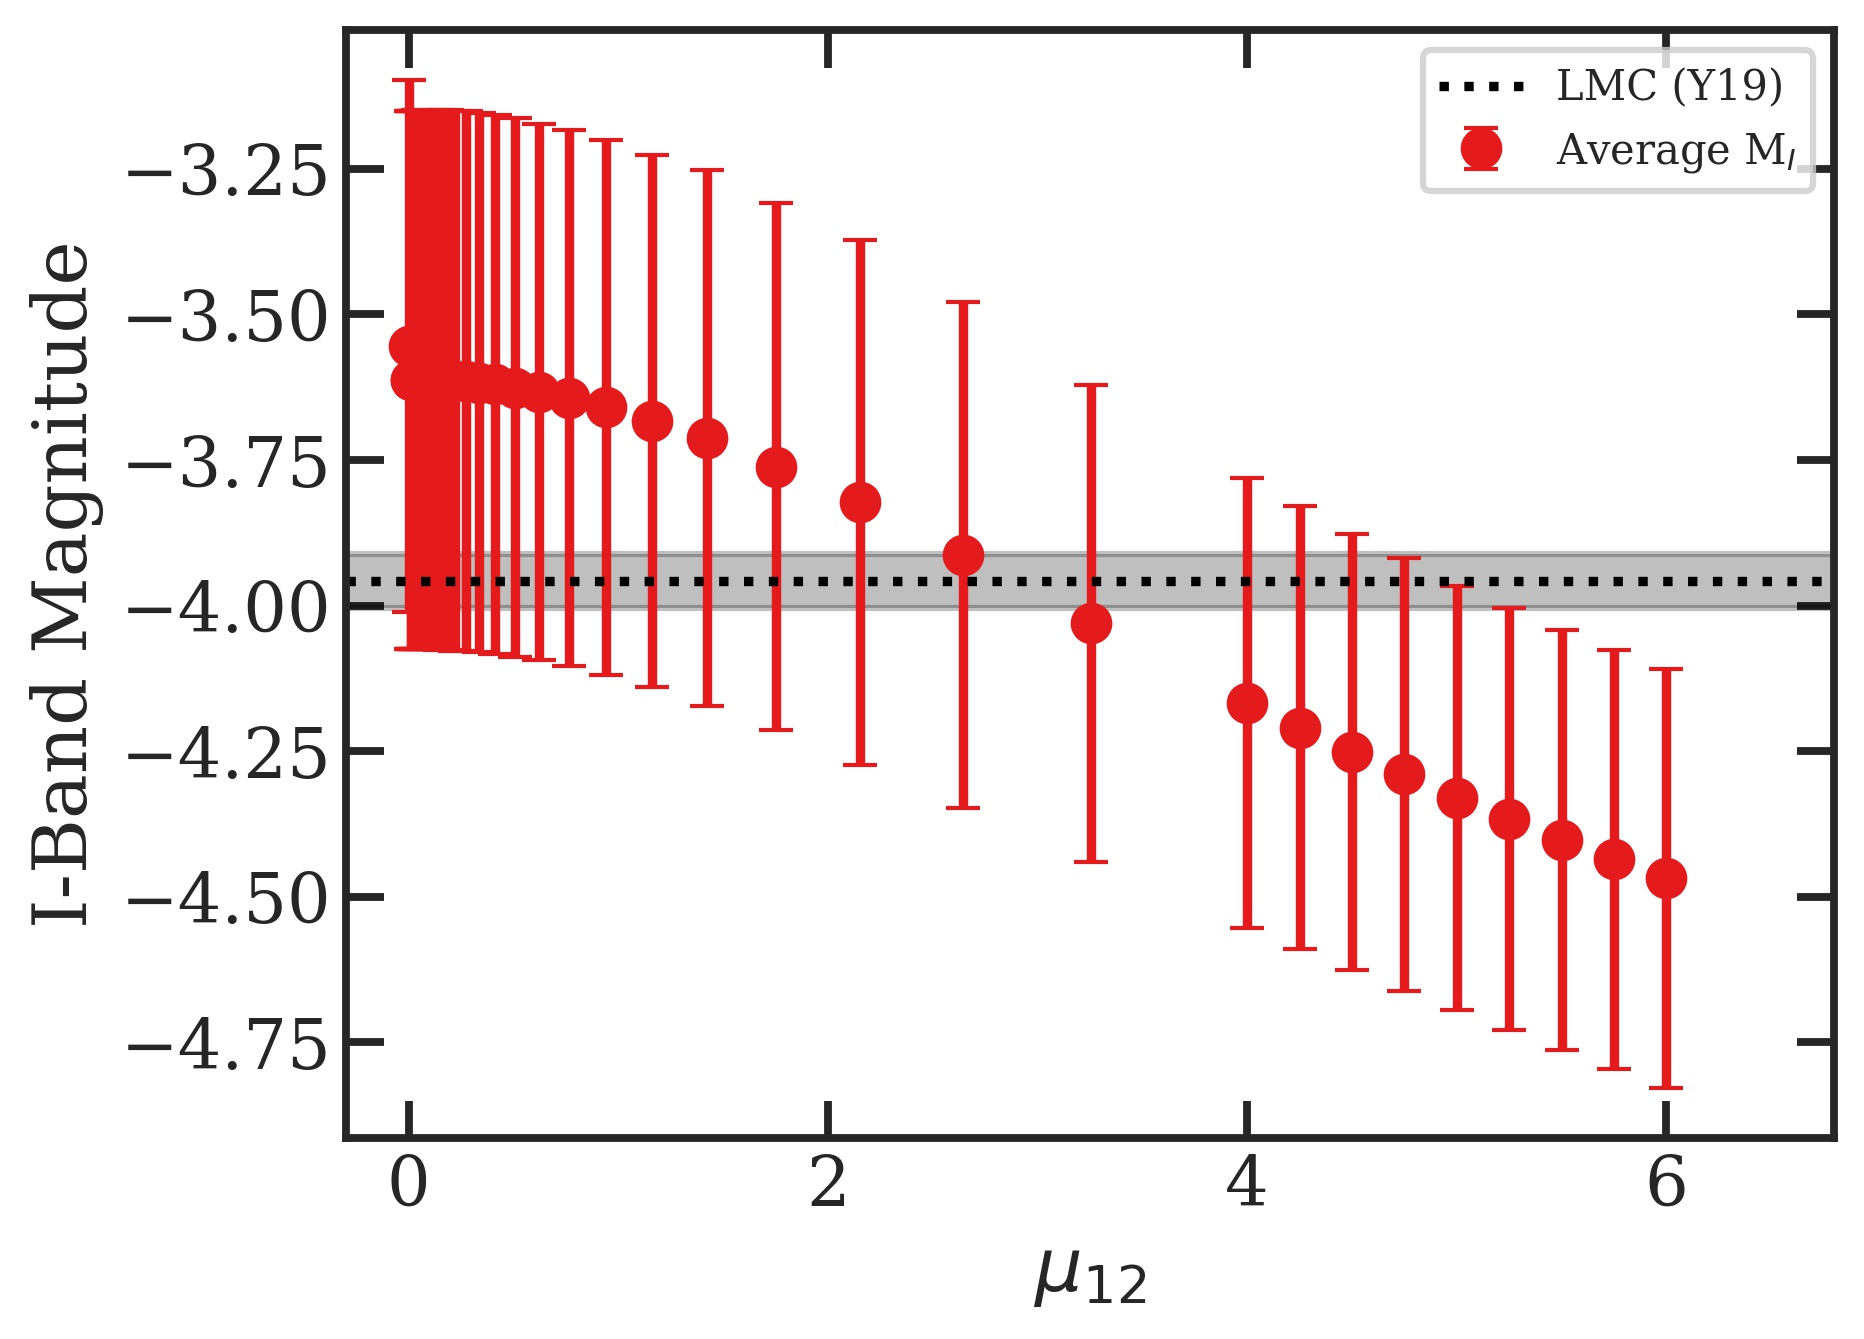
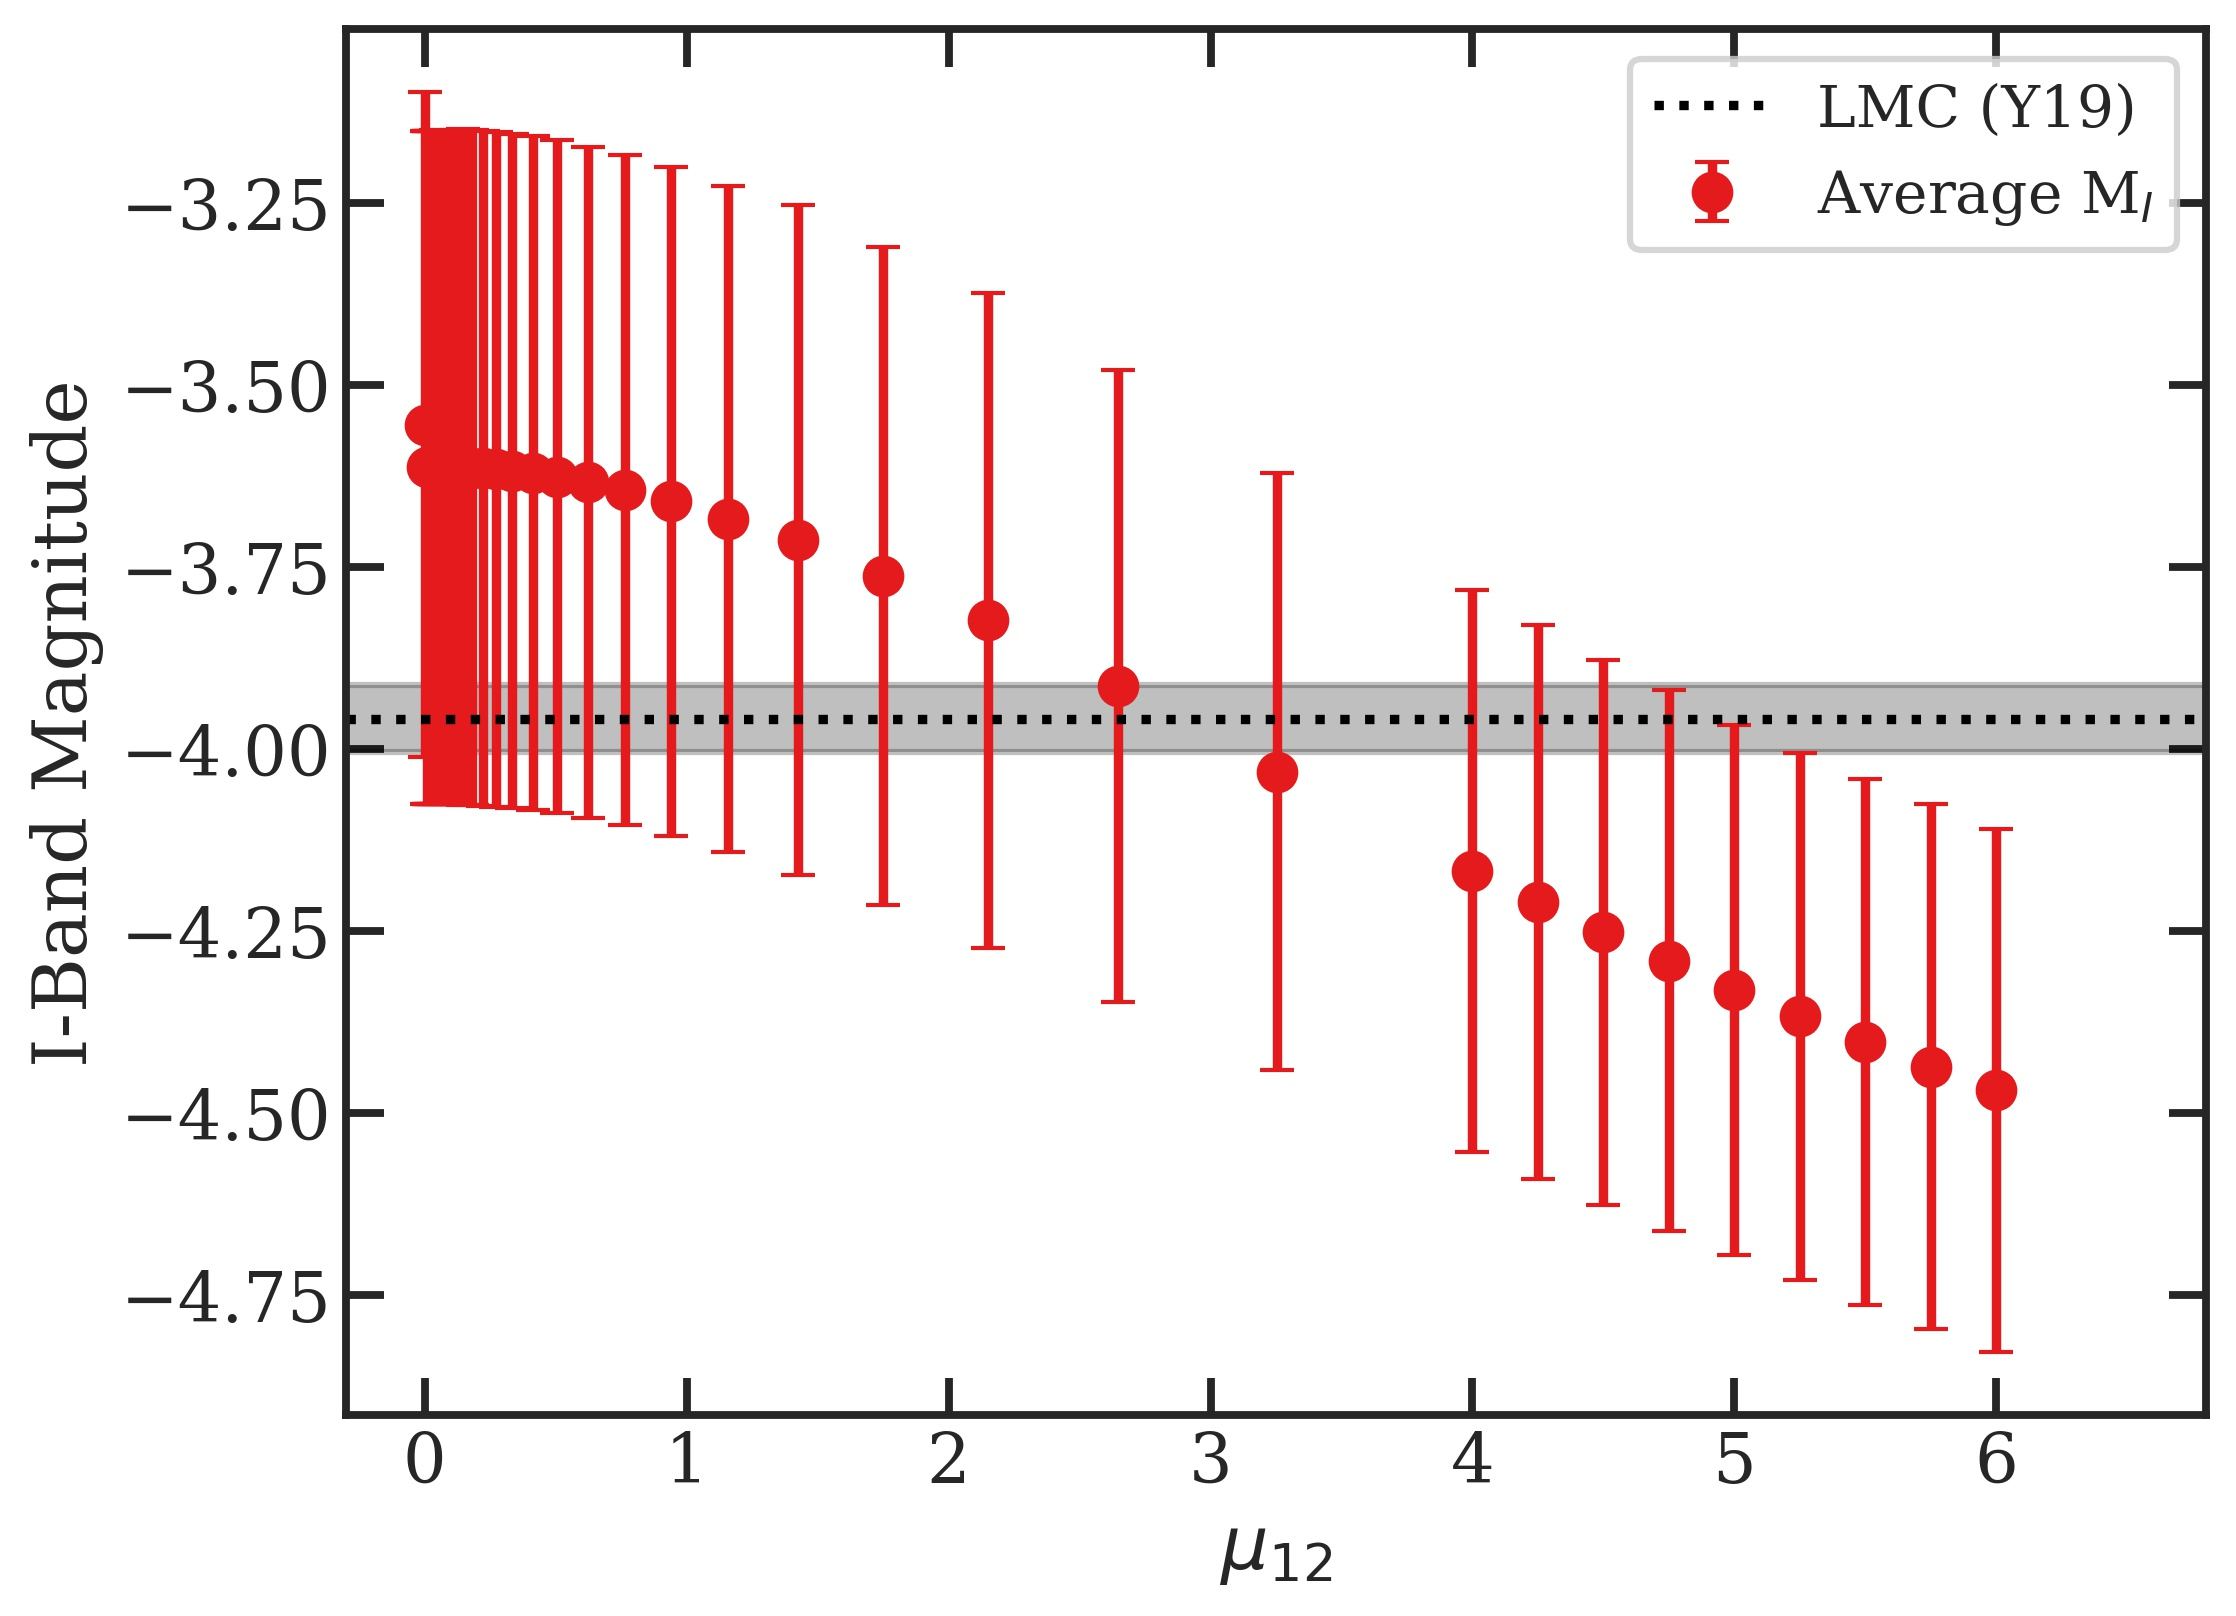
make plots nicer

Changed region(s): [[0.0, 0.0, 0.9957, 0.9186], [0.529, 0.9186, 0.6223, 0.9798]]

diff --git a/analysis/output_analysis/genPlots.py b/analysis/output_analysis/genPlots.py
@@ -9,18 +9,20 @@ import matplotlib.pyplot as plt
 import seaborn as sb
 
 #sb.set(context='paper', style='whitegrid', palette='Set1')
-sb.set(style='white', context='talk', palette='Set1') # Dark2
-plt.rcParams["font.family"] = "serif"
-plt.rcParams["figure.dpi"] = 300
-plt.rcParams["axes.grid.which"] = 'both'
-plt.rcParams['ytick.left'] = True
-plt.rcParams['xtick.bottom'] = True
-plt.rcParams['ytick.right'] = True
-plt.rcParams['xtick.top'] = True
-plt.rcParams['ytick.direction'] = 'in'
-plt.rcParams['xtick.direction'] = 'in'
 
 def io(mesaOutFile):
+
+    sb.set(style='white', context='talk', palette='Set1') # Dark2
+    plt.rcParams["font.family"] = "serif"
+    plt.rcParams["figure.dpi"] = 300
+    plt.rcParams["axes.grid.which"] = 'both'
+    plt.rcParams['ytick.left'] = True
+    plt.rcParams['xtick.bottom'] = True
+    plt.rcParams['ytick.right'] = True
+    plt.rcParams['xtick.top'] = True
+    plt.rcParams['ytick.direction'] = 'in'
+    plt.rcParams['xtick.direction'] = 'in'
+
 
     df = pd.read_csv(mesaOutFile, index_col=0)
     return df
@@ -36,7 +38,7 @@ def plotMI(mags):
 
     a = 0.25
     
-    fig, ax = plt.subplots()
+    fig, ax = plt.subplots(1, figsize=(8,6))
     group = magsGood.groupby(magsGood.mu).mean().reset_index()
     std = magsGood.groupby(magsGood.mu).std()
     
@@ -60,7 +62,7 @@ def plotMI(mags):
     ax.set_ylabel('I-Band Magnitude')
     #ax.set_xscale('log')
     ax.set_xlim(xmin, xmax+0.5)
-    ax.legend(prop={'size': 10})
+    ax.legend(prop={'size': 14})
     fig.savefig('mu12_vs_MI.jpeg', transparent=False,
                 bbox_inches='tight')
 
@@ -125,7 +127,7 @@ def Iband_vs_binned(df):
     '''
     df = df[df.flag==0]
     
-    labels = ['Mass', 'Y', 'Z']
+    labels = [r'Mass [M$_\odot$]', 'Y', 'Z']
     keys = ['mass', 'y', 'z']
     tols = [0, 0, 0.01]
     allMus = np.sort(df.mu.unique())
@@ -139,21 +141,6 @@ def Iband_vs_binned(df):
             mags = df[df.mu == mu]
             #print(mags)
 
-            '''
-            group = []
-            std = []
-            for i in range(0, len(mags[key].unique()), 2):
-                m = mags[key].unique()[i]
-            
-                where = np.where(abs(mags[key] - m) <= tol)[0]
-                good = mags.iloc[where]
-                group.append(np.mean(good))
-                std.append(np.std(good))
-            
-            #print(type(group[0]))
-            group = pd.concat(group, axis=1).T
-            std = pd.concat(std, axis=1).T
-            '''
             group = mags.groupby([key]).mean().reset_index()
             std = mags.groupby([key]).std().reset_index()
 
@@ -180,7 +167,7 @@ def Iband_vs_binned(df):
         
         ax.set_xlabel(label)
         ax.set_ylabel('I-Band Magnitude')
-        ax.legend()
+        ax.legend(prop={'size': 14}, loc='best')
         if key == 'z':
             ax.set_xscale('log')
         ax.set_xlim(xmin, xmax+tol)
